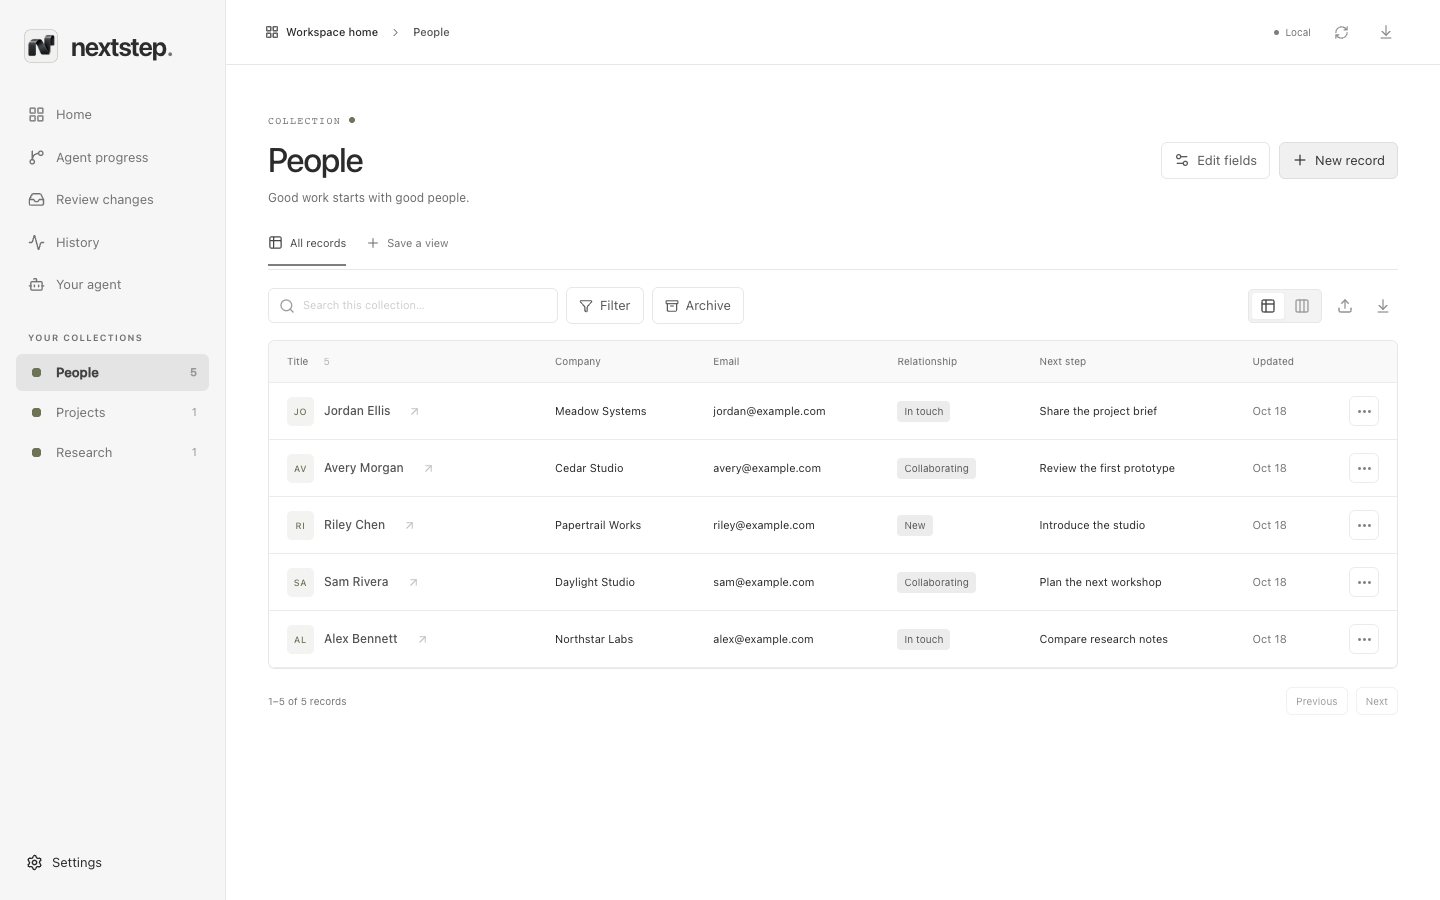
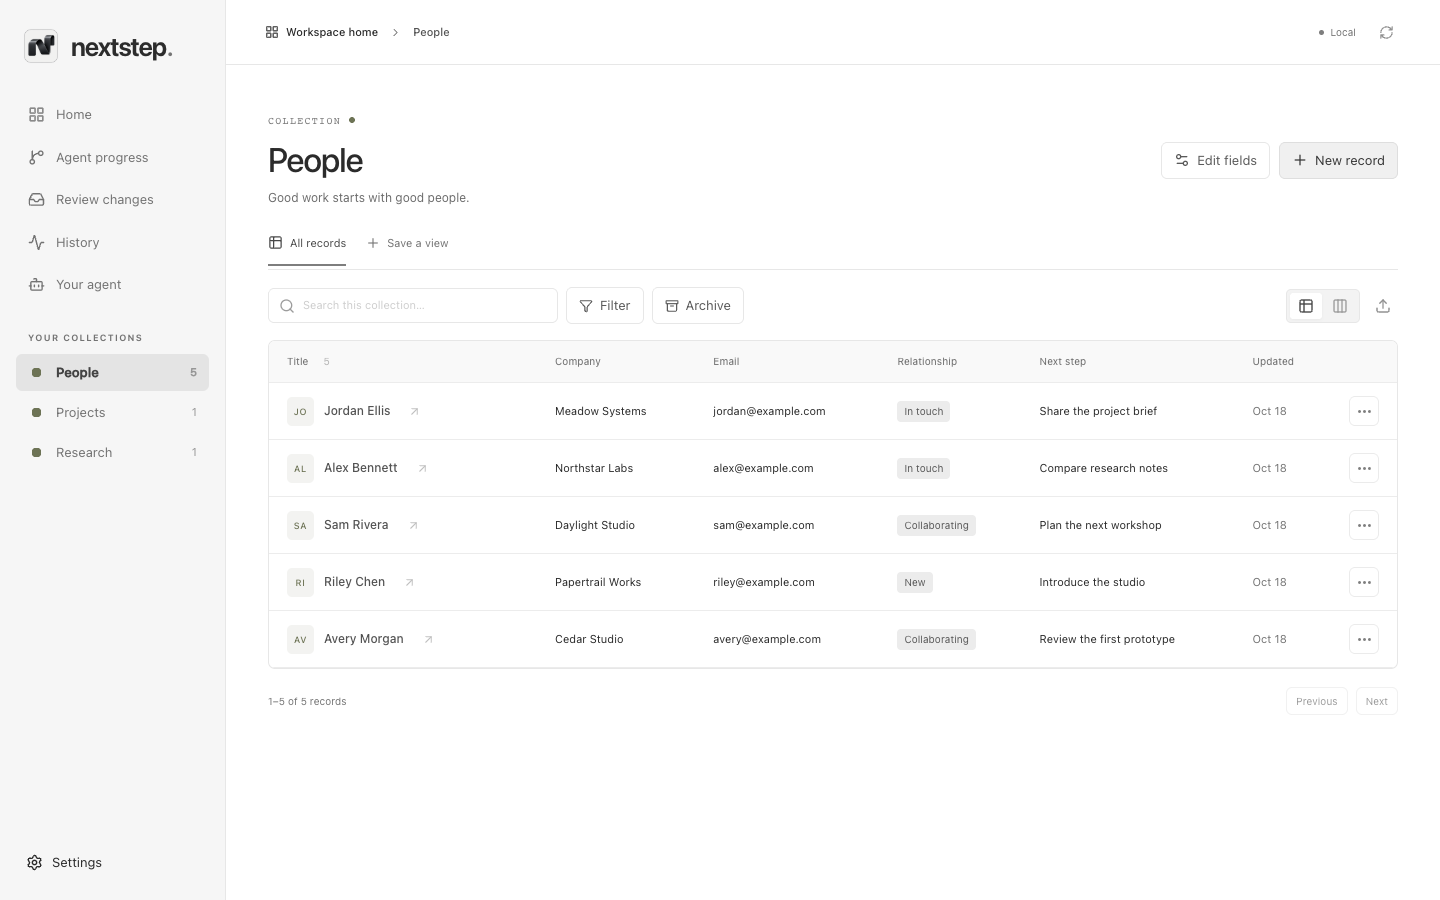
Move data downloads into Settings and bump to 0.4.4

diff --git a/app/globals.css b/app/globals.css
@@ -87,8 +87,6 @@ h1 { font-size: 36px; font-weight: 620; line-height: 1.15; letter-spacing: -1.5p
 .scope-switch button[aria-pressed=true] { color: light-dark(hsl(var(--accent-hue) calc(24.8% * var(--accent-saturation)) 30.8%), hsl(var(--accent-hue) calc(24.8% * var(--accent-saturation)) 86.5%)); background: light-dark(hsl(var(--accent-hue) calc(30.0% * var(--accent-saturation)) 96.1%), hsl(var(--accent-hue) calc(30.0% * var(--accent-saturation)) 16.3%)); font-weight: 550; }
 .scope-switch button span { font-size: 12px; color: light-dark(hsl(var(--accent-hue) calc(12.3% * var(--accent-saturation)) 63.3%), hsl(var(--accent-hue) calc(12.3% * var(--accent-saturation)) 67.0%)); }
 .filter-select select,.sort-select select { height: 36px; font-size: 13px; border-radius: 7px; }
-.export-button { display: grid; place-items: center; flex-shrink: 0; width: 34px; height: 36px; border: 1px solid var(--border); border-radius: 7px; color: light-dark(hsl(var(--accent-hue) calc(11.9% * var(--accent-saturation)) 53.7%), hsl(var(--accent-hue) calc(11.9% * var(--accent-saturation)) 72.8%)); }
-.export-button:hover { background: light-dark(hsl(var(--accent-hue) calc(47.4% * var(--accent-saturation)) 96.3%), hsl(var(--accent-hue) calc(47.4% * var(--accent-saturation)) 16.2%)); color: var(--primary); }
 .column-visibility-button { display: inline-flex; align-items: center; justify-content: center; gap: 7px; flex-shrink: 0; height: 36px; padding: 0 10px; border: 1px solid var(--border); border-radius: 7px; color: light-dark(hsl(var(--accent-hue) calc(10.7% * var(--accent-saturation)) 50.4%), hsl(var(--accent-hue) calc(10.7% * var(--accent-saturation)) 74.8%)); background: light-dark(white, #1d1f25); font-size: 12px; white-space: nowrap; }
 .column-visibility-button:hover { background: light-dark(hsl(var(--accent-hue) calc(47.4% * var(--accent-saturation)) 96.3%), hsl(var(--accent-hue) calc(47.4% * var(--accent-saturation)) 16.2%)); color: var(--primary); }
 .search-wrap input { padding-right: 30px; }
@@ -206,7 +204,6 @@ h1 { font-size: 36px; font-weight: 620; line-height: 1.15; letter-spacing: -1.5p
 }
 @media(min-width:701px) and (max-width:1150px) { .search-wrap input { width:185px; } }
 @media(min-width:701px) and (max-width:850px) { .search-wrap input { width:145px; } .filter-select { width:125px; } }
-@media(max-width: 700px) { .export-button { display: none; } }
 
 /* Agent connection and search history share the existing editor layout. */
 .agent-sheet .field select,.agent-sheet .field input { width:100%; border:1px solid var(--border); border-radius:6px; padding:10px 12px; background:light-dark(white, #1d1f25); font:inherit; }

diff --git a/app/page.tsx b/app/page.tsx
@@ -1,6 +1,6 @@
 'use client';
 import { useCallback, useEffect, useRef, useState } from 'react';
-import { ArrowDownToLine, ArrowUpRight, Bot, CalendarDays, Columns3, List, Plus, RefreshCw, Search, SlidersHorizontal, X } from 'lucide-react';
+import { ArrowUpRight, Bot, CalendarDays, Columns3, List, Plus, RefreshCw, Search, SlidersHorizontal, X } from 'lucide-react';
 import { Toaster, toast } from 'sonner';
 import { Tabs, TabsList, TabsTrigger } from '@/components/ui/tabs';
 import { NativeSelect, NativeSelectOption } from '@/components/ui/native-select';
@@ -153,7 +153,6 @@ export default function Home() {
         <div className="search-wrap"><Search size={15}/><input ref={searchRef} value={query} onChange={e => setQuery(e.target.value)} placeholder="Search opportunities…" aria-label="Search opportunities"/>{query && <button className="clear-search" onClick={() => setQuery('')} aria-label="Clear search"><X size={13}/></button>}</div>
         <NativeSelect className="filter-select" aria-label="Filter opportunities" value={filter} onChange={e => setFilter(e.target.value)}><NativeSelectOption value="all">All priorities</NativeSelectOption><NativeSelectOption value="high">High priority</NativeSelectOption><NativeSelectOption value="due">Follow-ups due{dueCount > 0 ? ` (${dueCount})` : ''}</NativeSelectOption></NativeSelect>
         {view === 'list' && <NativeSelect className="sort-select" aria-label="Sort opportunities" value={sort} onChange={e => setSort(e.target.value)}><NativeSelectOption value="manual">Pipeline order</NativeSelectOption><NativeSelectOption value="company">Company A–Z</NativeSelectOption><NativeSelectOption value="due">Follow-up date</NativeSelectOption><NativeSelectOption value="newest">Newest first</NativeSelectOption></NativeSelect>}
-        <a className="export-button" href="/api/export" download title="Export a JSON backup" aria-label="Export a JSON backup"><ArrowDownToLine size={16}/></a>
       </div>
       {loadError && <div className="connection-error" role="alert"><span>Couldn’t connect to your local database. Your saved opportunities are still on this device.</span><button className="secondary-button" onClick={() => { setLoading(true); void refresh(); }}><RefreshCw size={14}/>Retry</button></div>}
       {filtered && <div className="filter-notice"><span>{visible.length} matching {visible.length === 1 ? 'opportunity' : 'opportunities'}</span><button onClick={() => { setQuery('');setFilter('all'); }}>Clear filters <X size={12}/></button></div>}

diff --git a/components/app-settings.tsx b/components/app-settings.tsx
@@ -8,6 +8,8 @@ import {
 import { Check, Download, RefreshCw, Database, Monitor, Moon, Palette, Server, Sun, ShieldCheck } from 'lucide-react';
 import Modal from './crm/modal';
 import { errorMessage, type UpdateState, type ThemePreference } from '@/lib/agent';
+import { request } from '@/lib/model';
+import type { Workspace } from '@/lib/crm';
 import '../app/appearance.css';
 
 const presets = [
@@ -64,6 +66,28 @@ const PreferencesContext = createContext<Preferences>({
   openSettings: () => {},
 });
 export const useAppPreferences = () => useContext(PreferencesContext);
+
+function DataExports() {
+  const [workspaces, setWorkspaces] = useState<NonNullable<Workspace['existingWorkspaces']>>([]);
+  const [error, setError] = useState('');
+  useEffect(() => {
+    let cancelled = false;
+    request<Workspace>('/api/crm/context')
+      .then(value => { if (!cancelled) setWorkspaces(value.existingWorkspaces || []); })
+      .catch(error => { if (!cancelled) setError(errorMessage(error)); });
+    return () => { cancelled = true; };
+  }, []);
+  return <>
+    <div className="backend-actions">
+      <a className="crm-button" href="/api/crm/export" download><Download size={15}/>Export collections</a>
+      {workspaces.filter(workspace => workspace.id === 'legacy-board').map(workspace =>
+        <a key={workspace.id} className="crm-button" href="/api/export" download><Download size={15}/>Export {workspace.name}</a>
+      )}
+    </div>
+    <p className="crm-hint">Download your data as JSON. Collection exports include all records, views, proposals and history. JSON exports are not a full database backup.</p>
+    {error && <p className="crm-error" role="alert">Couldn’t load workspace exports. {error}</p>}
+  </>;
+}
 
 export default function AppSettings({ children }: { children: ReactNode }) {
   const [update, setUpdate] = useState<UpdateState | null>(null);
@@ -269,6 +293,7 @@ export default function AppSettings({ children }: { children: ReactNode }) {
                       : window.location.origin)}
                 </small>
               </div>
+              <DataExports />
               {window.nextstepDesktop ? (
                 <>
                   <p>

diff --git a/components/crm/collection-view.tsx b/components/crm/collection-view.tsx
@@ -1,7 +1,6 @@
 import { useEffect, useState } from 'react';
 import {
   Archive,
-  ArrowDownToLine,
   ArrowUpRight,
   Columns3,
   Filter as FilterIcon,
@@ -339,21 +338,6 @@ export default function CollectionView({
   function actions(record: RecordItem) {
     return <RecordActions title={record.title} stages={boardStages} current={String(record.values[groupBy] || '')} quickActions={actionStages} disabled={moving || loading} archived={archived} onMove={stage => void move(record, stage)} onArchive={() => void archive(record)}/>;
   }
-  function exportRecords() {
-    const payload = JSON.stringify(
-      { collection, records: data.records },
-      null,
-      2,
-    );
-    const url = URL.createObjectURL(
-      new Blob([payload], { type: 'application/json' }),
-    );
-    const a = document.createElement('a');
-    a.href = url;
-    a.download = `${collection.id}-visible-records.json`;
-    a.click();
-    URL.revokeObjectURL(url);
-  }
   const groups = [
     ...(collection.fields.find(f => f.key === groupBy)?.required ? [] : ['']),
     ...stageOptions,
@@ -470,15 +454,6 @@ export default function CollectionView({
           onClick={onImport}
         >
           <Upload size={16} />
-        </button>
-        <button
-          className="crm-icon-button"
-          aria-label="Export visible records"
-          title="Export visible records"
-          disabled={loading || Boolean(error)}
-          onClick={exportRecords}
-        >
-          <ArrowDownToLine size={16} />
         </button>
       </div>
       {showFilter && (

diff --git a/app/workspace.tsx b/app/workspace.tsx
@@ -1,7 +1,6 @@
 import { lazy, Suspense, useCallback, useEffect, useRef, useState, type MouseEvent } from 'react';
 import {
   Activity,
-  ArrowDownToLine,
   ArrowRight,
   Bot,
   ChevronRight,
@@ -333,15 +332,6 @@ export default function WorkspaceApp() {
             >
               <RefreshCw size={15} />
             </button>
-            <a
-              className="crm-icon-button"
-              href="/api/crm/export"
-              download
-              aria-label="Export workspace"
-              title="Export collections, records, proposals and history"
-            >
-              <ArrowDownToLine size={16} />
-            </a>
           </div>
         </header>
         <main id="workspace-content" className={`crm-content ${route === 'legacy-board' ? 'crm-pipeline-content' : ''}`}>

diff --git a/README.md b/README.md
@@ -32,7 +32,7 @@ Automatic connection is available for installed Mac desktop agents. **Other agen
 - **Reviewable changes:** proposals show the values before and after. Approval validates the whole change together; stale proposals cannot overwrite newer decisions. A trusted connection can explicitly enable direct writes.
 - **Visible progress:** see the agent’s reports, sources and pending work alongside confirmed applied changes. Records keep their history and can be archived and restored.
 - **Your appearance:** light, dark or system mode, with a neutral default and optional color accents. Choose in Settings or the native View → Appearance menu. The app icon stays unchanged.
-- **Your data:** local SQLite, complete workspace JSON export and private self-hosting. No built-in model. Optional anonymous usage counts are off by default.
+- **Your data:** local SQLite, JSON exports in Settings → Data & backend, and private self-hosting. No built-in model. Optional anonymous usage counts are off by default.
 
 <details>
 <summary>Pipeline stages, dark mode and appearance settings</summary>

diff --git a/docs/desktop.md b/docs/desktop.md
@@ -53,6 +53,8 @@ The MCP connection always includes the selected database's absolute path. Your a
 
 For a full backup, stop the app and any connected MCP helpers, then copy the database and any SQLite `-wal`/`-shm` companion files together. A SQLite backup operation is also safe while the database is open. Workspace JSON export includes collections, records, views, proposals, flows and history; it is not a full database backup.
 
+Data downloads live in **Settings → Data & backend**. **Export collections** includes all records, including archived ones, rather than only the visible page. Separate existing workspaces appear there with their own export when present. Workspace and pipeline toolbars stay focused on browsing and editing.
+
 ## First-run setup
 
 The first launch asks you to **Connect your agent**. Choose **Connect Codex** or **Connect Claude Code**. Nextstep adds a separate `nextstep-crm` MCP connection for the selected database and opens a new local conversation with the setup request prefilled. Review and send it in your agent; Nextstep does not send automatically.
